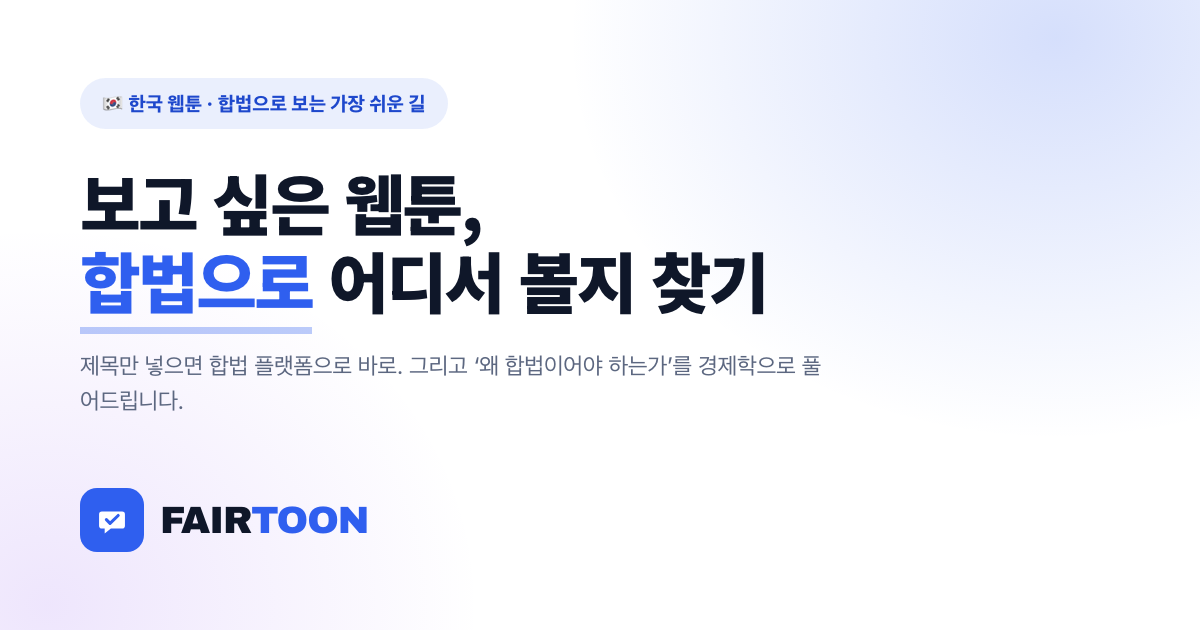
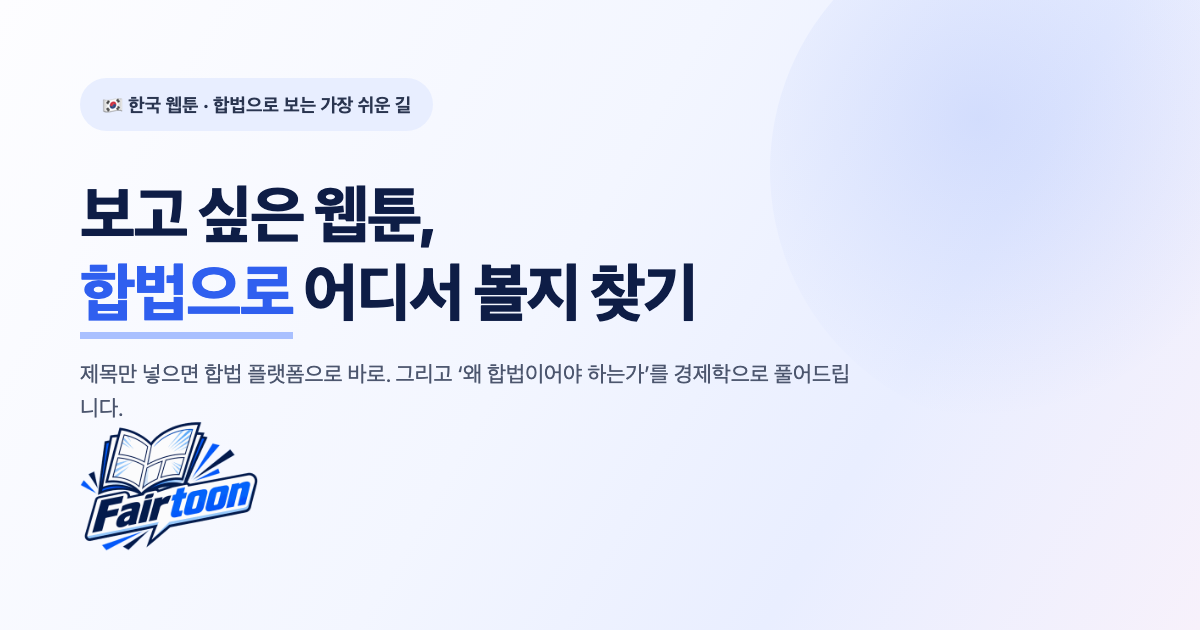
검색 결과 화면 다듬기 + 확정 로고로 파비콘·앱아이콘·공유이미지 교체
검색 — 카탈로그가 4,504편이 되며 실제 문제가 드러났다.
'나'로 검색하면 273편이 한 번에 그려졌다. 24편씩 '더 보기'로 끊는다.
정렬이 없어 '미생'을 찾으면 '미생물'이 먼저 나올 수 있었다. 제목 완전일치 →
시작일치 → 포함 → 작가에서만 걸린 것 순으로 세운다.
결과 카드가 딥링크를 무시하고 플랫폼 검색으로만 갔다. 작품 페이지로 직행한다.
문구도 정정 — 전체 카탈로그를 검색하는데 "큐레이션에서 N편"이라고 적혀 있었다.

명작 큐레이션 카드의 '○○에서 보기 ↗'도 같은 이유로 딥링크를 흘리고 있었다.
한 줄 문제라 함께 고친다.

아이콘 — 확정 로고에서 마크만 떼어낼 수 없는 것은 사실이었다(책 하단이
워드마크 배너에 가려 크롭하면 잘린 책이 된다). 그래서 펼친 책을 SVG로 다시
그렸다. 16px 탭에서도 읽힌다. 기존 파비콘·공유이미지는 옛 임시 로고(말풍선+
체크)를 쓰고 있었다. 공유이미지 생성기는 etc/og-image-source.html 에 남긴다.

23번은 work_rankings 제거 SQL이다. drop 문은 주석 처리해 뒀다 — 되돌릴 수
없는 작업이라 승인 전에는 실행하지 않는다.

Changed region(s): [[0.0617, 0.2714, 0.7092, 0.8746], [0.0617, 0.1508, 0.37, 0.181]]

diff --git a/etc/og-image-source.html b/etc/og-image-source.html
@@ -1,0 +1,25 @@
+<!doctype html><html><head><meta charset="utf-8"><style>
+*{margin:0;padding:0;box-sizing:border-box}
+body{width:1200px;height:630px;overflow:hidden;
+  font-family:-apple-system,BlinkMacSystemFont,'Apple SD Gothic Neo','Inter',sans-serif;
+  background:linear-gradient(120deg,#fdfdff 0%,#f3f6ff 46%,#e9eeff 72%,#f7f1fb 100%);
+  position:relative;}
+.pill{display:inline-flex;align-items:center;gap:8px;background:#e8eeff;color:#2A3550;
+  font-size:19px;font-weight:700;padding:12px 22px;border-radius:999px;}
+h1{font-size:64px;line-height:1.22;letter-spacing:-2.2px;color:#0E1D46;font-weight:800;margin-top:44px;}
+h1 .hl{color:#2F5FEF;border-bottom:7px solid #A9C0FF;padding-bottom:2px;}
+p.sub{margin-top:26px;font-size:22px;line-height:1.55;color:#4C566E;max-width:770px;}
+.wrap{padding:78px 0 0 80px;}
+.lock{position:absolute;left:80px;bottom:56px;display:flex;align-items:center;gap:0;}
+.lock img{width:178px;height:auto;display:block;}
+.deco{position:absolute;right:-90px;top:-90px;width:520px;height:520px;border-radius:50%;
+  background:radial-gradient(circle at 40% 40%,rgba(47,95,239,.13),rgba(47,95,239,0) 68%);}
+</style></head><body>
+<div class="deco"></div>
+<div class="wrap">
+  <span class="pill">🇰🇷 한국 웹툰 · 합법으로 보는 가장 쉬운 길</span>
+  <h1>보고 싶은 웹툰,<br><span class="hl">합법으로</span> 어디서 볼지 찾기</h1>
+  <p class="sub">제목만 넣으면 합법 플랫폼으로 바로. 그리고 ‘왜 합법이어야 하는가’를 경제학으로 풀어드립니다.</p>
+</div>
[1 lines of base64/hex data omitted]
+</body></html>

diff --git a/index.html b/index.html
@@ -867,9 +867,22 @@ function popularList(n){
 function normKey(s){return (s||"").toString().toLowerCase().replace(/\s+/g,"");}
 function searchCurated(q){
   var nq=normKey(q); if(!nq) return [];
+  /* 카탈로그가 수천 편이므로 순서가 중요하다. 제목 완전일치 → 제목 시작일치 →
+     제목 포함 → 작가·영문·별칭에서만 걸린 것. 같은 등급 안에서는 가나다순. */
+  function rank(c){
+    var t=normKey(c.title);
+    if(t===nq) return 0;
+    if(t.indexOf(nq)===0) return 1;
+    if(t.indexOf(nq)!==-1) return 2;
+    return 3;
+  }
   return CURATED.filter(function(c){
     var hay=normKey([c.title,c.en,(c.aliases||[]).join(" "),c.author].join(" "));
     return hay.indexOf(nq)!==-1;
+  }).sort(function(a,b){
+    var ra=rank(a),rb=rank(b);
+    if(ra!==rb) return ra-rb;
+    return a.title.localeCompare(b.title,"ko");
   });
 }
 
@@ -1111,7 +1124,7 @@ function showToast(msg){var t=document.getElementById("toast");t.textContent=msg
 
 /* ---------------- ROUTER ---------------- */
 var state={view:"home",query:"",articleId:null,voiceId:null,quizStep:0,quizScores:{},discoverGenre:"전체",popularTab:"fairtoon",
-           browseStatus:"연재",browseGenre:"전체",browsePlat:"전체",browseLimit:60};
+           browseStatus:"연재",browseGenre:"전체",browsePlat:"전체",browseLimit:60,searchLimit:24};
 
 /* 주소(해시) 동기화 — 새로고침·뒤로가기·링크 공유 지원 */
 var expectedHash=null,bootRender=false;
@@ -1180,7 +1193,7 @@ function showView(name){
 }
 function runSearch(q){
   stopCounter();
-  state.query=q;state.view="search";
+  state.query=q;state.view="search";state.searchLimit=SEARCH_PAGE;   /* 검색어가 바뀌면 처음부터 다시 센다 */
   document.querySelectorAll(".nav-link").forEach(function(el){el.classList.remove("active");});
   render();syncHash();window.scrollTo({top:0,behavior:"instant"});
 }
@@ -1195,7 +1208,8 @@ document.addEventListener("click",function(e){
 /* ---------------- CARD BUILDERS ---------------- */
 function curatedCardHTML(c){
   var p=platOf(c.legal);
-  var url=p.search.replace("{q}",encodeURIComponent(c.title));
+  /* 딥링크가 있으면 작품 페이지로 보낸다. 다른 카드는 이미 그렇게 하고 있었다. */
+  var url=c.legalUrl||p.search.replace("{q}",encodeURIComponent(c.title));
   return '<div class="toon-card">'+
     '<div class="toon-cover"><span class="status-badge">'+(c.status||"완결")+'</span>'+coverInner(c)+'</div>'+
     '<div class="toon-body">'+
@@ -1345,7 +1359,26 @@ function renderHome(){
   setTimeout(function(){startHeroTyping();startCounter("revCounter");},50);
 }
 
-/* ---------------- RENDER: SEARCH PASSTHROUGH ---------------- */
+/* ---------------- RENDER: SEARCH PASSTHROUGH ----------------
+   카탈로그가 수천 편이 된 뒤로 '회귀'처럼 흔한 말을 넣으면 수백 편이 걸린다.
+   전부 그리지 않고 SEARCH_PAGE편씩 이어 붙인다. 카드는 찾아보기 화면과 같은
+   것을 쓴다 — 딥링크가 있으면 작품 페이지로 바로 간다. */
+var SEARCH_PAGE=24;
+function searchMoreHTML(total){
+  var shown=Math.min(state.searchLimit||SEARCH_PAGE,total);
+  if(shown>=total) return '';
+  return '<div id="searchMore" style="text-align:center;margin-top:24px;">'+
+    '<button class="btn-primary" onclick="moreSearch()">더 보기 ('+shown.toLocaleString()+' / '+total.toLocaleString()+')</button></div>';
+}
+/* 더 보기 — 화면을 다시 그리지 않고 카드만 이어 붙인다(스크롤 자리를 지키기 위해) */
+function moreSearch(){
+  var grid=document.getElementById("searchGrid");if(!grid) return;
+  var matches=searchCurated(state.query||""),from=state.searchLimit||SEARCH_PAGE;
+  state.searchLimit=from+SEARCH_PAGE;
+  grid.insertAdjacentHTML("beforeend",matches.slice(from,state.searchLimit).map(browseCardHTML).join(""));
+  var btn=document.getElementById("searchMore");
+  if(btn) btn.outerHTML=searchMoreHTML(matches.length);
+}
 function renderSearch(){
   var q=(state.query||"").trim();
   var html='<div class="container">';
@@ -1369,13 +1402,15 @@ function renderSearch(){
       '<span class="pass-go">검색 ↗</span>'+
     '</a>';
   }).join("");
-  /* 헤더: 큐레이션 매칭 여부에 따라 문구 변경 */
+  /* 헤더: 작품 정보 보유 여부에 따라 문구 변경 */
   if(matches.length){
-    html+='<div class="pass-header"><h2>“<span class="q">'+q+'</span>” 검색 결과</h2><p>페어툰 큐레이션에서 '+matches.length+'편을 찾았습니다. 합법 플랫폼으로 바로 연결됩니다.</p></div>'+
-      '<div class="toon-grid" style="margin-bottom:12px;">'+matches.map(curatedCardHTML).join("")+'</div>'+
-      '<h3 class="search-subhead">다른 플랫폼에서도 찾기</h3>';
+    var lim=state.searchLimit||SEARCH_PAGE;
+    html+='<div class="pass-header"><h2>“<span class="q">'+q+'</span>” 검색 결과</h2><p>페어툰 작품 정보에서 '+matches.length.toLocaleString()+'편을 찾았습니다. 카드를 누르면 그 작품을 정식으로 볼 수 있는 곳으로 바로 갑니다.</p></div>'+
+      '<div class="toon-grid" id="searchGrid" style="margin-bottom:12px;">'+matches.slice(0,lim).map(browseCardHTML).join("")+'</div>'+
+      searchMoreHTML(matches.length)+
+      '<h3 class="search-subhead" style="margin-top:36px;">다른 플랫폼에서도 찾기</h3>';
   } else {
-    html+='<div class="pass-header"><h2>“<span class="q">'+q+'</span>” 합법으로 보기</h2><p>큐레이션에는 아직 없는 작품입니다. 아래 공식 플랫폼에서 바로 검색해 보세요.</p></div>';
+    html+='<div class="pass-header"><h2>“<span class="q">'+q+'</span>” 합법으로 보기</h2><p>페어툰 작품 정보에는 아직 없는 작품입니다. 아래 공식 플랫폼에서 바로 검색해 보세요.</p></div>';
   }
   html+='<div class="pass-list">'+cards+'</div>'+
     '<div class="pass-note">ℹ 페어툰 큐레이션에 없는 작품도, 각 플랫폼의 <b>검색 결과</b>로 안내해 어떤 신작이든 바로 찾을 수 있어요. (플랫폼 검색은 작품 페이지가 아니라 검색 결과로 이동하며, 표시 가격은 플랫폼 일반 안내입니다.) 링크가 깨졌다면 <a href="#" onclick="showView(\'about\');return false;">문의하기</a>로 알려주세요.</div>'+
